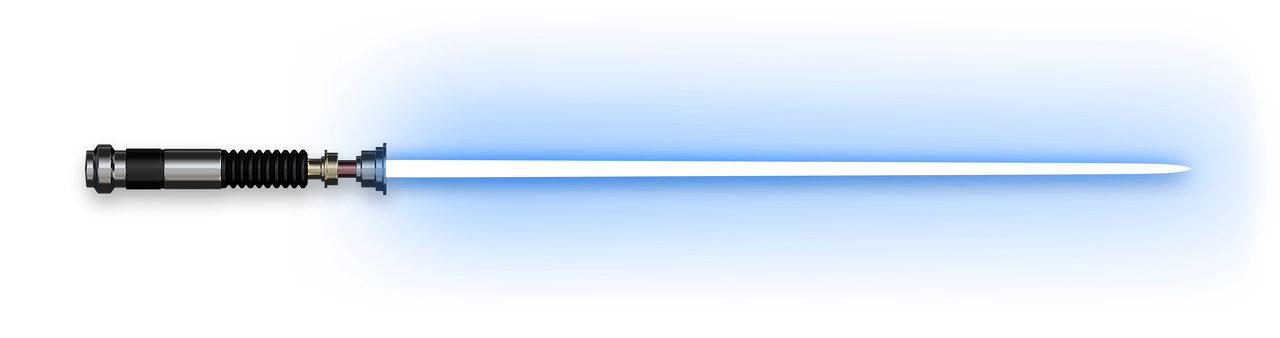
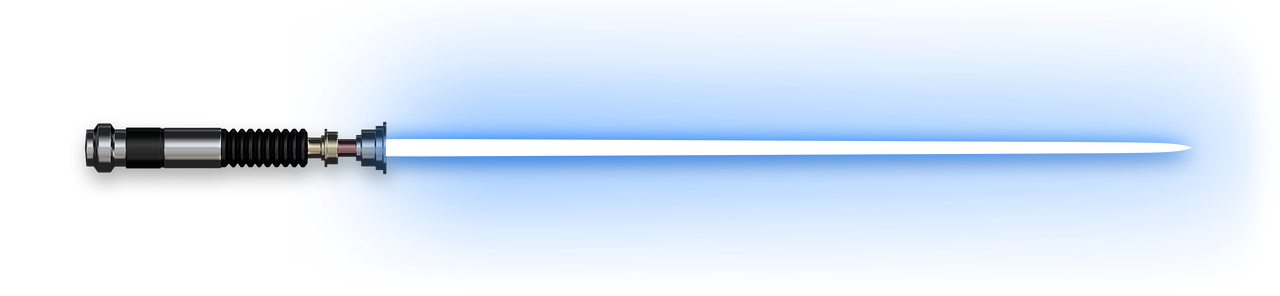
Change h1 size and img size

Changed region(s): [[0.0625, 0.3953, 0.9062, 0.5777]]

diff --git a/index.html b/index.html
@@ -15,23 +15,24 @@
 
     <div class="d-flex p-5 flex-column justify-content-center container-sm">
         <h1 class="pb-3">Star Wars</h1>
-        <p class="fw-semibold">Enter the name of a Star Wars-character below and get biometric data in return. A few examples are Luke Skywalker, R2-D2, Darth Vader, Leia Organa, 
-            and Chewbacca. </p>
-        <div class="mb-4 pt-3">
-            <label for="characterName" class="form-label fw-semibold">Name of a Star Wars character:</label>
-            <input type="text" class="form-control" id="characterName" placeholder="Please type the name here">
-          </div>
-          <div class="d-grid gap-2 d-md-block">
-            <button type="button" id="searchButton" class="btn btn-bd-primary col-3">Search</button>
+        <p class="fw-semibold">Enter the name of a Star Wars-character below and get biometric data in return. A few examples are Luke Skywalker, R2-D2, Darth Vader, Leia Organa, and Chewbacca.</p>
+        <div class="row mb-4 pt-3">
+            <div class="col-9">
+                <label for="characterName" class="form-label fw-semibold">Name of a Star Wars character:</label>
+                <input type="text" class="form-control" id="characterName" placeholder="Please type the name here">
+            </div>
+            <div class="col-3 d-flex align-items-end">
+                <button type="button" id="searchButton" class="btn btn-bd-primary w-100">Search</button>
+            </div>
         </div>
-        <div class="pt-2 pb-2">
-            <h5 class="p-1">Result:</h5>
+        <div class="pt-1">
             <textarea class="resultArea" id="resultOutput" rows="10"></textarea>
         </div>
     </div>
     <div class="lightsabre">
         <img src="images/star-wars-2369317_1280.png" alt="Lightsabre">
     </div>
+    
 
     <script src="https://cdn.jsdelivr.net/npm/bootstrap@5.3.3/dist/js/bootstrap.bundle.min.js" 
     integrity="sha384-YvpcrYf0tY3lHB60NNkmXc5s9fDVZLESaAA55NDzOxhy9GkcIdslK1eN7N6jIeHz" crossorigin="anonymous"></script>

diff --git a/style.css b/style.css
@@ -24,6 +24,7 @@ body {
 
 h1 {
     font-family: 'jedi', Arial;
+    font-size: 5rem;
     padding-left: 1rem;
 }
 
@@ -50,4 +51,12 @@ h1 {
 img {
     margin: auto;
     max-width: 80%;
+}
+
+/* Media query for smaller screens */
+@media (max-width: 768px) {
+    h1 {
+        font-size: 2.5rem;
+        padding-left: 0;
+    }
 }
